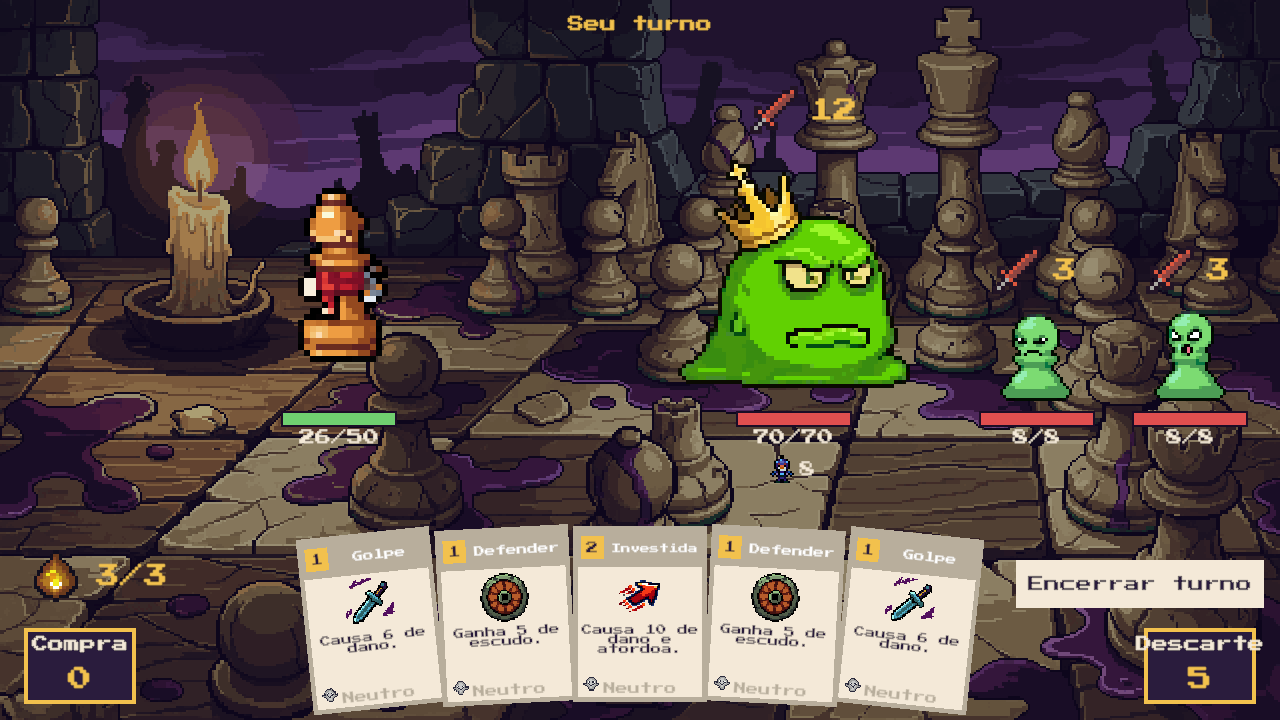
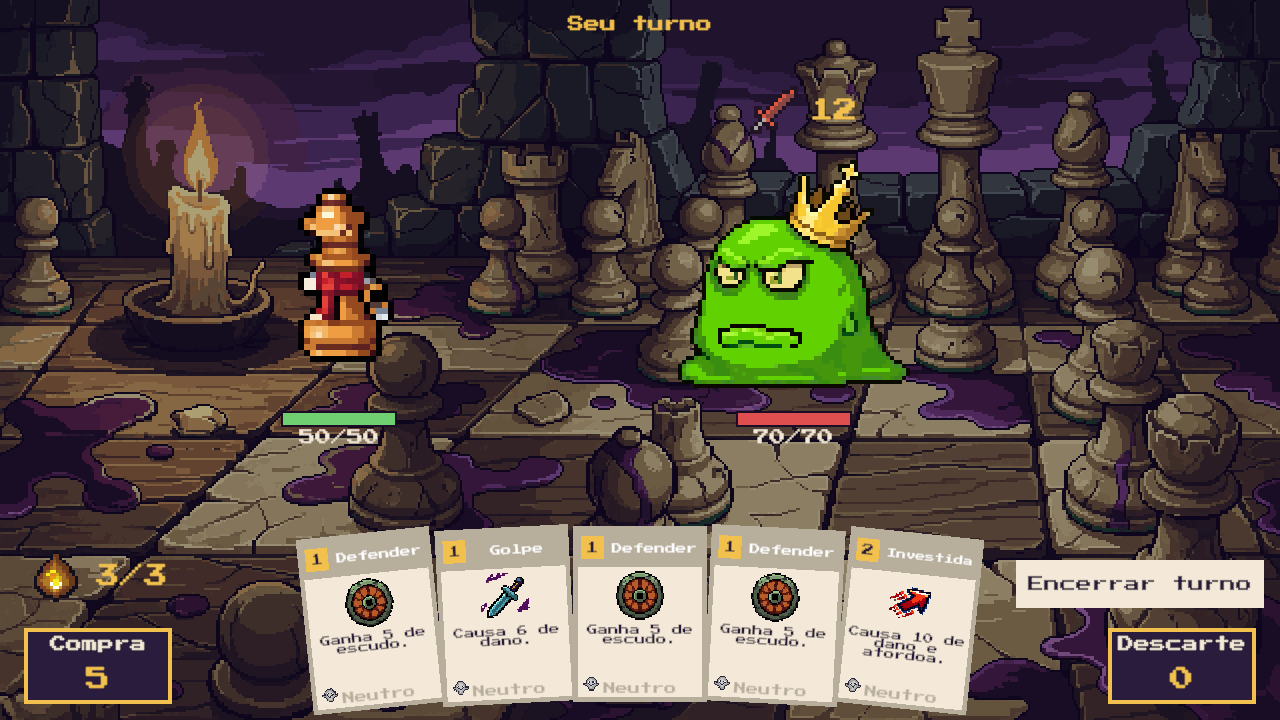
Rei Slime espelhado para olhar o Peão (EnemyData.flipX)

diff --git a/Assets/_Project/Scripts/Battle/BattleController.cs b/Assets/_Project/Scripts/Battle/BattleController.cs
@@ -198,6 +198,7 @@ namespace XequeDeTinta.Battle
         {
             var d = e.Data;
             var view = CreateActor("Inimigo_" + e.Name + "_" + index, e, d.sprite, d.animator, 2f * d.spriteScale, EnemyFeet(index), 1);
+            view.Renderer.flipX = d.flipX;
             var col = view.gameObject.AddComponent<BoxCollider2D>();
             col.size = new Vector2(1.8f, 1.8f); col.offset = new Vector2(0f, 1f);
             view.SetSpeed(speed);

diff --git a/Assets/_Project/Scripts/Editor/DataAssetBuilder.cs b/Assets/_Project/Scripts/Editor/DataAssetBuilder.cs
@@ -124,6 +124,7 @@ namespace XequeDeTinta.EditorTools
                 Act("Dividir", IntentType.Summon, summon: 2),
                 Act("Coroa Pesada", IntentType.Attack, damage: 6, shield: 8));
             r.king.isBoss = true;
+            r.king.flipX = true;
             r.king.enrageBelowHpFraction = 0.5f;
             r.king.enrageStrength = 2;
             r.king.summonedEnemy = r.mini;

diff --git a/Assets/_Project/Scripts/Data/EnemyData.cs b/Assets/_Project/Scripts/Data/EnemyData.cs
@@ -43,5 +43,7 @@ namespace XequeDeTinta.Data
         public float spriteScale = 1f;
         public RuntimeAnimatorController animator;
         public bool isBoss;
+        /// <summary>Espelha o sprite na batalha (a arte original olha para o lado oposto ao herói).</summary>
+        public bool flipX;
     }
 }
